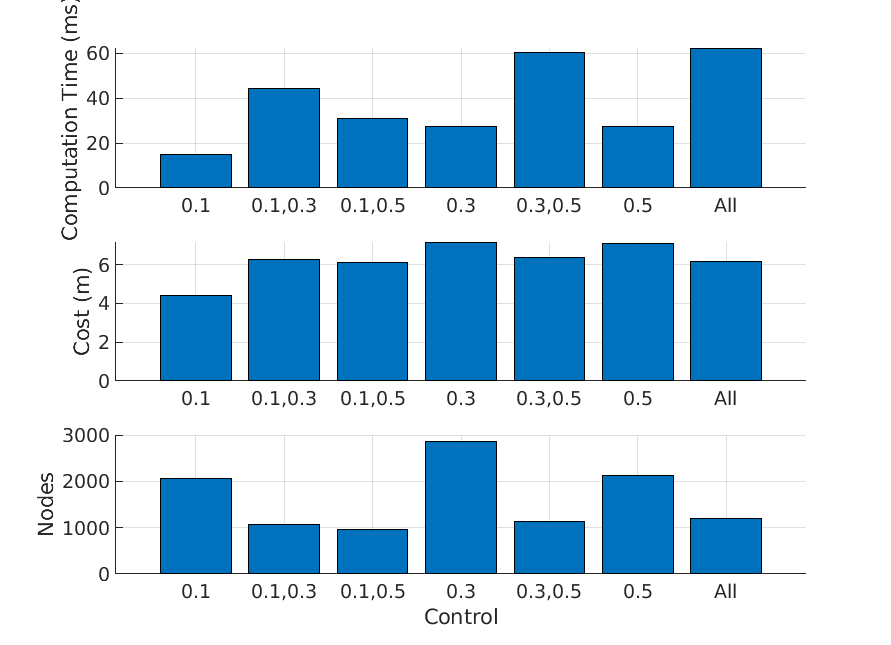
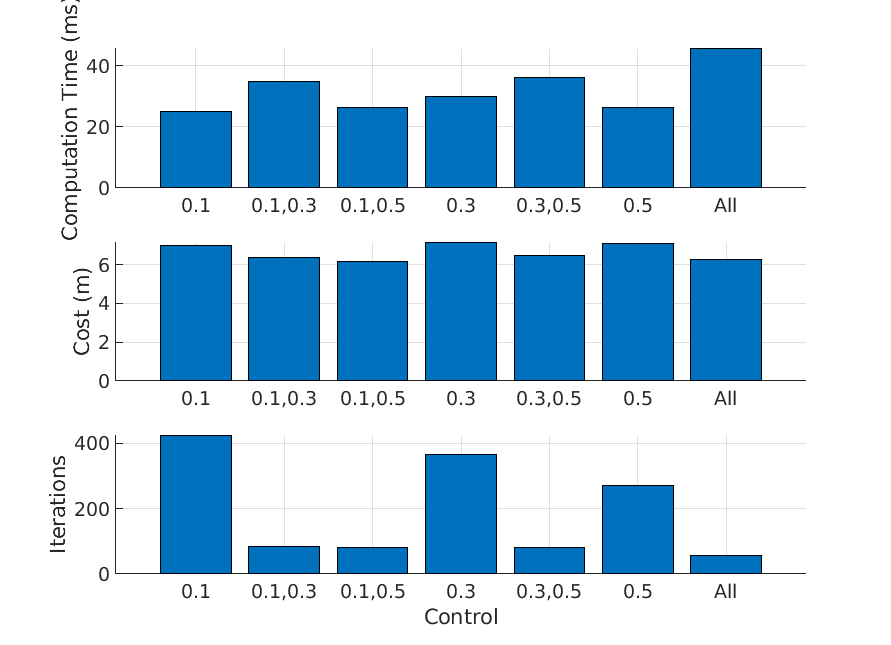
Benchmark results 2-5

diff --git a/sbmpo_models/matlab/BookModelConfig_BM3.m b/sbmpo_models/matlab/BookModelConfig_BM3.m
@@ -1,4 +1,4 @@
-%% Book Model Configuration - Linear Control Benchmark
+%% Book Model Configuration - Rotation Control Benchmark
 
 clear
 close all
@@ -7,7 +7,7 @@ clc
 %% Parameters
 
 % Set total number of runs
-runs = 7;
+runs = 15;
 
 MaxIterations = 30000;
 MaxGenerations = 300;
@@ -25,20 +25,25 @@ GridActiveStates = [1, 1, 0];
 GridResolution = [0.025, 0.025];
 
 RotationControls = {
-        %[0 -0.392699 0.392699];
-        %[0 -0.392699 0.392699 -0.196350 0.196350];
-        %[0 -0.589049 0.589049 -0.392699 0.392699 -0.196350 0.196350];
-        [0 -0.785398 0.785398 -0.589049 0.589049 -0.392699 0.392699 -0.196350 0.196350];
+        [0 -0.196350 0.196350];
+        [0 -0.392699 0.392699];
+        [0 -0.589049 0.589049];
+        [0 -0.785398 0.785398];
+        [0 -0.196350 0.196350 -0.392699 0.392699];
+        [0 -0.196350 0.196350 -0.589049 0.589049];
+        [0 -0.196350 0.196350 -0.785398 0.785398];
+        [0 -0.392699 0.392699 -0.589049 0.589049];
+        [0 -0.392699 0.392699 -0.785398 0.785398];
+        [0 -0.589049 0.589049 -0.785398 0.785398];
+        [0 -0.196350 0.196350 -0.392699 0.392699 -0.589049 0.589049];
+        [0 -0.196350 0.196350 -0.392699 0.392699 -0.785398 0.785398];
+        [0 -0.196350 0.196350 -0.589049 0.589049 -0.785398 0.785398];
+        [0 -0.392699 0.392699 -0.589049 0.589049 -0.785398 0.785398];
+        [0 -0.196350 0.196350 -0.392699 0.392699 -0.589049 0.589049 -0.785398 0.785398];
       };
   
 LinearControls = {
         [0.1 0.3 0.5];
-        [0.1 0.3];
-        [0.1 0.5];
-        [0.3 0.5];
-        [0.1];
-        [0.3];
-        [0.5];
       };
 
 %% Configurration

diff --git a/sbmpo_models/matlab/BookModelResults_BM3.m b/sbmpo_models/matlab/BookModelResults_BM3.m
@@ -1,27 +1,24 @@
-%% Book Model Results - Linear Control Benchmark
+%% Book Model Results - Rotation Control Benchmark
 close all
 
 plans = sbmpo_results("../results/book_model_results.csv");
 obstacles_csv = readmatrix("../results/obstacles.csv");
 
 size = length(plans);
-
 time_ms = zeros(1, size);
 num_iters = zeros(1, size);
 cost = zeros(1, size);
-nodes_per_iter = [27 18 18 18 9 9 9];
 
 for p = 1:size
     
     plan = plans(p);
-
     time_ms(p) = plan.time_ms;
-    num_iters(p) = plan.buffer_size / nodes_per_iter(p);
+    num_iters(p) = plan.buffer_size / NumberOfSamples(p);
     cost(p) = plan.cost;
 
 end
 
-X = categorical({'All','0.1,0.3','0.1,0.5','0.3,0.5','0.1','0.3','0.5'});
+X = categorical({'1','3','5','7','13','15','17','35','37','57','135','137','157','357','1357'});
 
 figure
 subplot(3,1,1)
@@ -41,8 +38,8 @@ hold on
 grid on
 bar(X,num_iters)
 ylabel("Iterations")
-xlabel("Control")
+xlabel("Rotational Control")
 
-sgtitle('Benchmark 2')
+sgtitle('Benchmark 3')
 
-saveas(gcf,'figures/benchmark2.png')
+saveas(gcf,'figures/benchmark3.png')

diff --git a/sbmpo_models/matlab/BookModelConfig_BM5.m b/sbmpo_models/matlab/BookModelConfig_BM5.m
@@ -1,4 +1,4 @@
-%% Book Model Configuration - Linear Control Benchmark
+%% Book Model Configuration - Grid Resolution Benchmark
 
 clear
 close all
@@ -7,12 +7,12 @@ clc
 %% Parameters
 
 % Set total number of runs
-runs = 7;
+runs = 40;
 
 MaxIterations = 30000;
 MaxGenerations = 300;
-SampleHorizonTime = 0.3;
-SampleHorizonTimeIncrement = 0.1;
+SampleHorizonTime = [0.025:0.025:1.0]';
+SampleHorizonTimeIncrement = SampleHorizonTime ./ 2;
 GoalThreshold = 0.3;
 
 NumberOfStates = 3;
@@ -25,20 +25,11 @@ GridActiveStates = [1, 1, 0];
 GridResolution = [0.025, 0.025];
 
 RotationControls = {
-        %[0 -0.392699 0.392699];
-        %[0 -0.392699 0.392699 -0.196350 0.196350];
-        %[0 -0.589049 0.589049 -0.392699 0.392699 -0.196350 0.196350];
-        [0 -0.785398 0.785398 -0.589049 0.589049 -0.392699 0.392699 -0.196350 0.196350];
+        [0 -0.785398 0.785398];
       };
   
 LinearControls = {
         [0.1 0.3 0.5];
-        [0.1 0.3];
-        [0.1 0.5];
-        [0.3 0.5];
-        [0.1];
-        [0.3];
-        [0.5];
       };
 
 %% Configurration

diff --git a/sbmpo_models/matlab/BookModelResults_BM5.m b/sbmpo_models/matlab/BookModelResults_BM5.m
@@ -1,27 +1,24 @@
-%% Book Model Results - Linear Control Benchmark
+%% Book Model Results - Rotation Control Benchmark
 close all
 
 plans = sbmpo_results("../results/book_model_results.csv");
 obstacles_csv = readmatrix("../results/obstacles.csv");
 
 size = length(plans);
-
 time_ms = zeros(1, size);
 num_iters = zeros(1, size);
 cost = zeros(1, size);
-nodes_per_iter = [27 18 18 18 9 9 9];
 
 for p = 1:size
     
     plan = plans(p);
-
     time_ms(p) = plan.time_ms;
-    num_iters(p) = plan.buffer_size / nodes_per_iter(p);
+    num_iters(p) = plan.buffer_size / NumberOfSamples(p);
     cost(p) = plan.cost;
 
 end
 
-X = categorical({'All','0.1,0.3','0.1,0.5','0.3,0.5','0.1','0.3','0.5'});
+X = SampleHorizonTime(:,1)';
 
 figure
 subplot(3,1,1)
@@ -41,8 +38,8 @@ hold on
 grid on
 bar(X,num_iters)
 ylabel("Iterations")
-xlabel("Control")
+xlabel("Sampling Horizon Time (s)")
 
-sgtitle('Benchmark 2')
+sgtitle('Benchmark 5')
 
-saveas(gcf,'figures/benchmark2.png')
+saveas(gcf,'figures/benchmark5.png')

diff --git a/sbmpo_models/matlab/BookModelConfig_BM4.m b/sbmpo_models/matlab/BookModelConfig_BM4.m
@@ -1,4 +1,4 @@
-%% Book Model Configuration - Linear Control Benchmark
+%% Book Model Configuration - Grid Resolution Benchmark
 
 clear
 close all
@@ -7,7 +7,7 @@ clc
 %% Parameters
 
 % Set total number of runs
-runs = 7;
+runs = 41;
 
 MaxIterations = 30000;
 MaxGenerations = 300;
@@ -22,23 +22,14 @@ InitialState = [0, 0, 1.5707];
 GoalState = [5, 5, 0];
 InitialControl = [0, 0];
 GridActiveStates = [1, 1, 0];
-GridResolution = [0.025, 0.025];
+GridResolution = [0.0:0.0025:0.1; 0.0:0.0025:0.1]';
 
 RotationControls = {
-        %[0 -0.392699 0.392699];
-        %[0 -0.392699 0.392699 -0.196350 0.196350];
-        %[0 -0.589049 0.589049 -0.392699 0.392699 -0.196350 0.196350];
-        [0 -0.785398 0.785398 -0.589049 0.589049 -0.392699 0.392699 -0.196350 0.196350];
+        [0 -0.785398 0.785398];
       };
   
 LinearControls = {
         [0.1 0.3 0.5];
-        [0.1 0.3];
-        [0.1 0.5];
-        [0.3 0.5];
-        [0.1];
-        [0.3];
-        [0.5];
       };
 
 %% Configurration

diff --git a/sbmpo_models/matlab/BookModelResults_BM4.m b/sbmpo_models/matlab/BookModelResults_BM4.m
@@ -1,27 +1,24 @@
-%% Book Model Results - Linear Control Benchmark
+%% Book Model Results - Rotation Control Benchmark
 close all
 
 plans = sbmpo_results("../results/book_model_results.csv");
 obstacles_csv = readmatrix("../results/obstacles.csv");
 
 size = length(plans);
-
 time_ms = zeros(1, size);
 num_iters = zeros(1, size);
 cost = zeros(1, size);
-nodes_per_iter = [27 18 18 18 9 9 9];
 
 for p = 1:size
     
     plan = plans(p);
-
     time_ms(p) = plan.time_ms;
-    num_iters(p) = plan.buffer_size / nodes_per_iter(p);
+    num_iters(p) = plan.buffer_size / NumberOfSamples(p);
     cost(p) = plan.cost;
 
 end
 
-X = categorical({'All','0.1,0.3','0.1,0.5','0.3,0.5','0.1','0.3','0.5'});
+X = GridResolution(:,1)';
 
 figure
 subplot(3,1,1)
@@ -41,8 +38,8 @@ hold on
 grid on
 bar(X,num_iters)
 ylabel("Iterations")
-xlabel("Control")
+xlabel("Grid Resolution")
 
-sgtitle('Benchmark 2')
+sgtitle('Benchmark 4')
 
-saveas(gcf,'figures/benchmark2.png')
+saveas(gcf,'figures/benchmark4.png')

diff --git a/sbmpo_models/src/book_model_node.cpp b/sbmpo_models/src/book_model_node.cpp
@@ -64,9 +64,9 @@ int main (int argc, char ** argv) {
 
         if (VERBOSE) ROS_INFO("Writing results to file %s ...", result_datafile.c_str());
 
-        sbmpo_models::addToData(result_datafile, planner, time_ms / RUNS, exit_code, 
+        sbmpo_models::addToData(result_datafile, planner, time_ms / val, exit_code, 
             sbmpo_models::SaveOptions::STATS,
-            cost / RUNS, buffer_size / RUNS, float(val) / RUNS
+            cost / val, buffer_size / val, float(val) / RUNS
         );
 
     }
